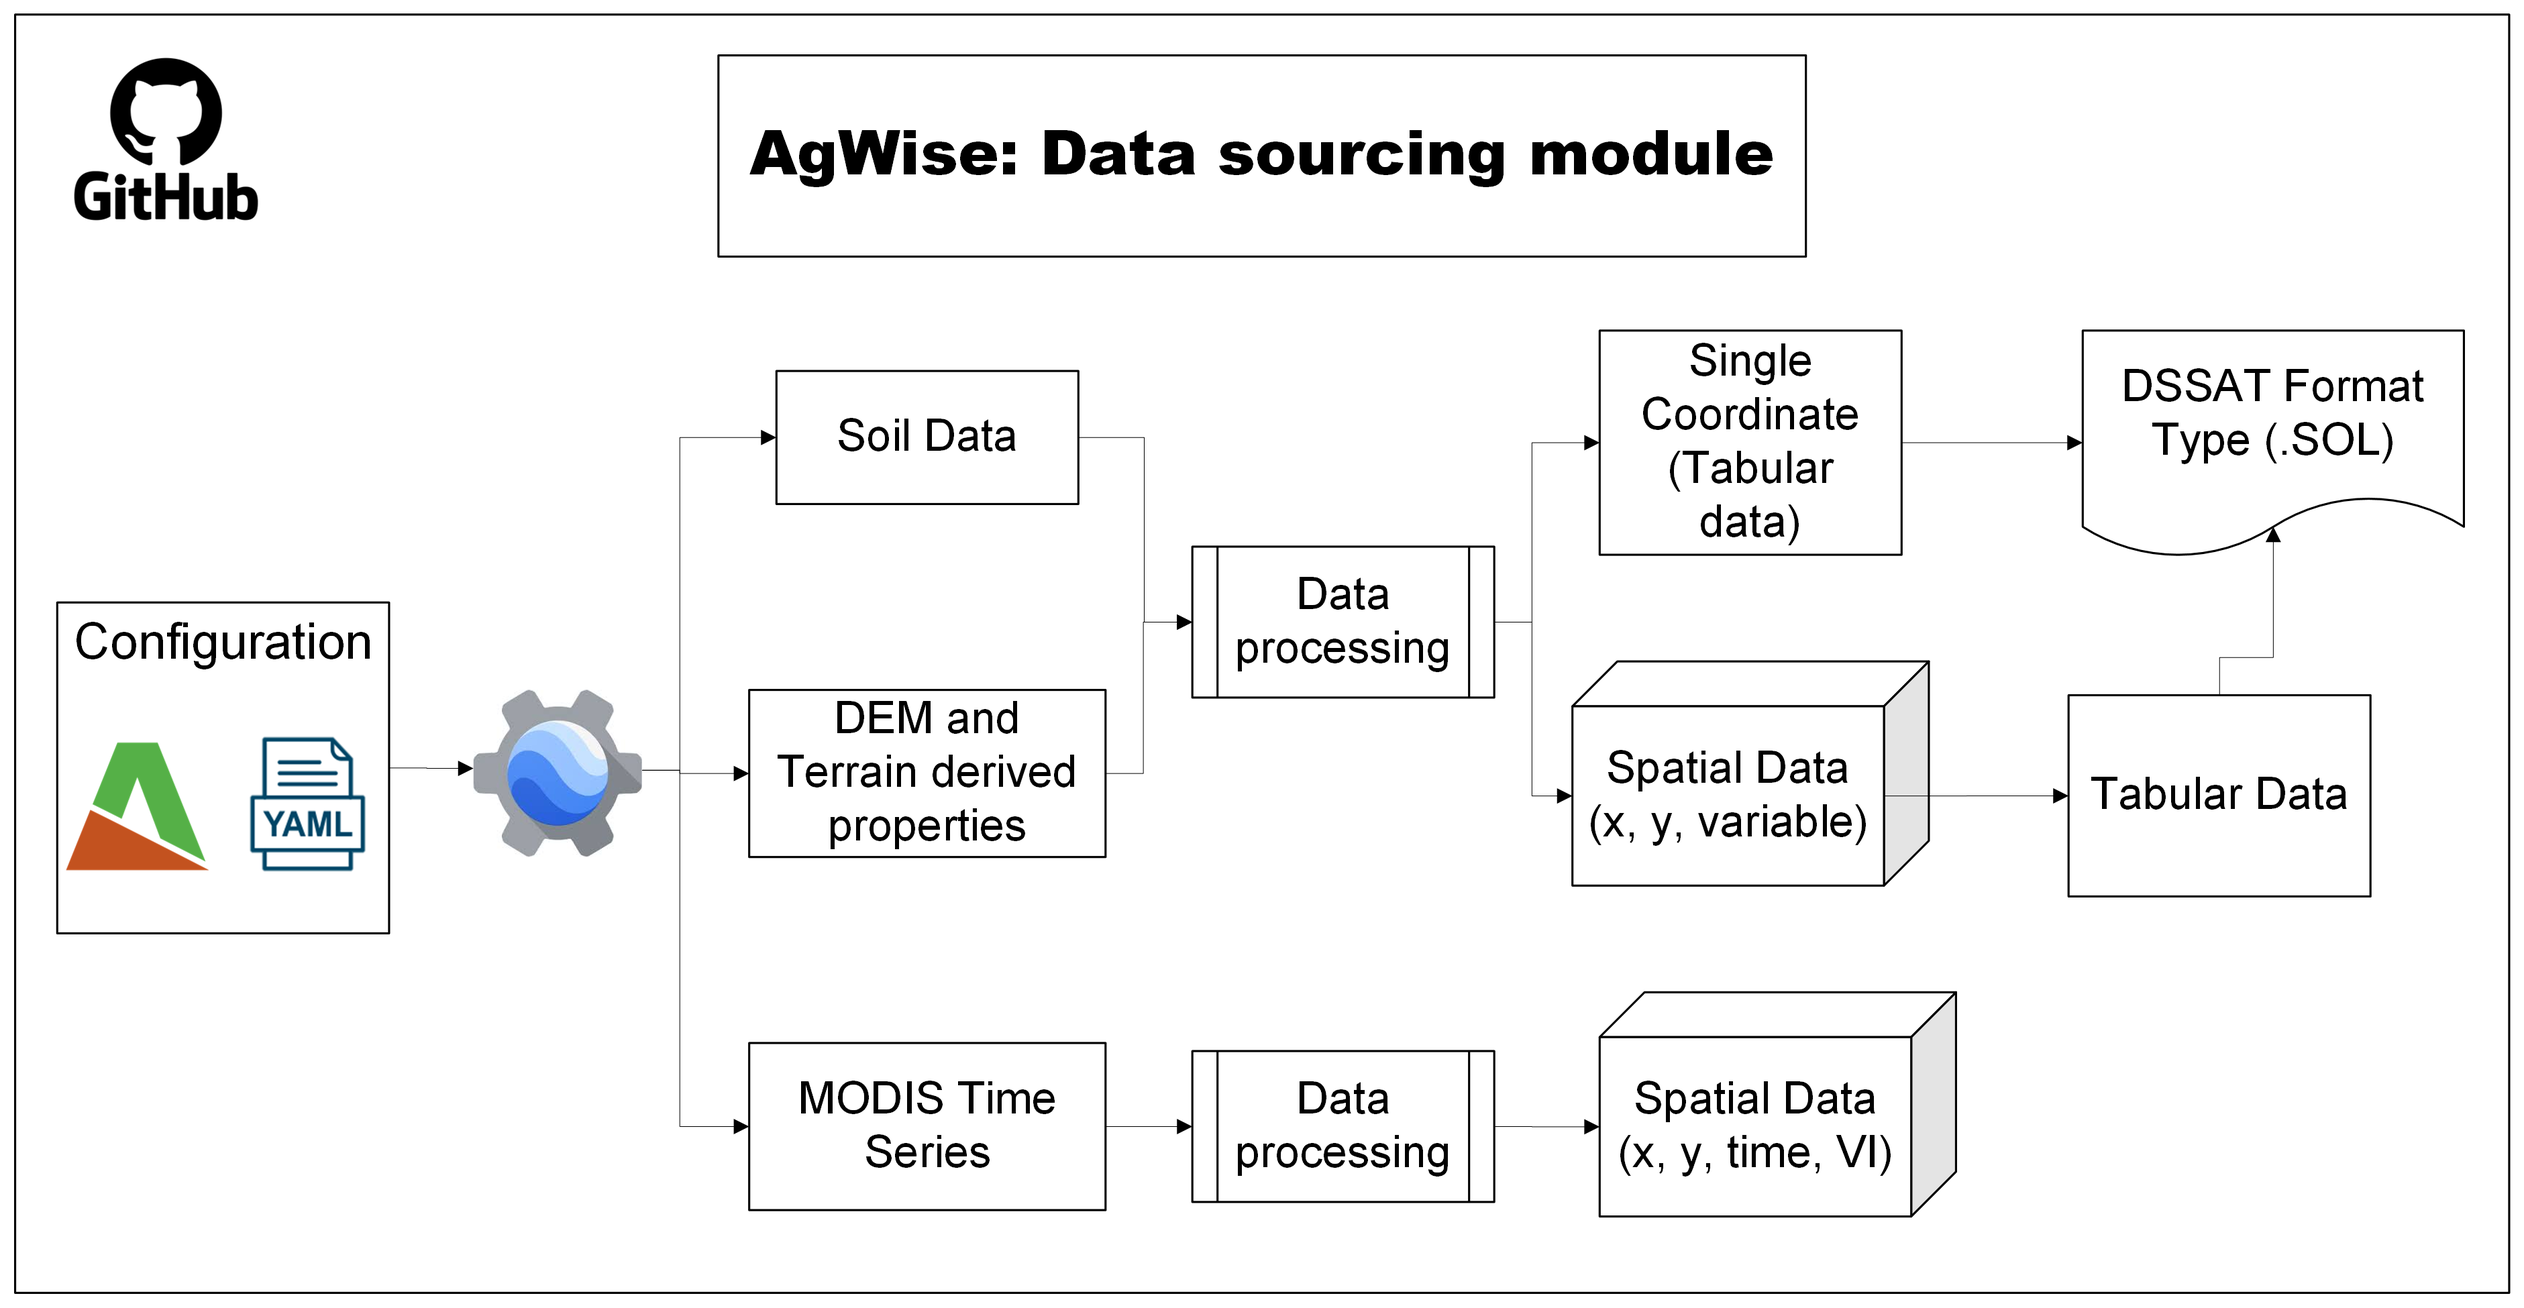
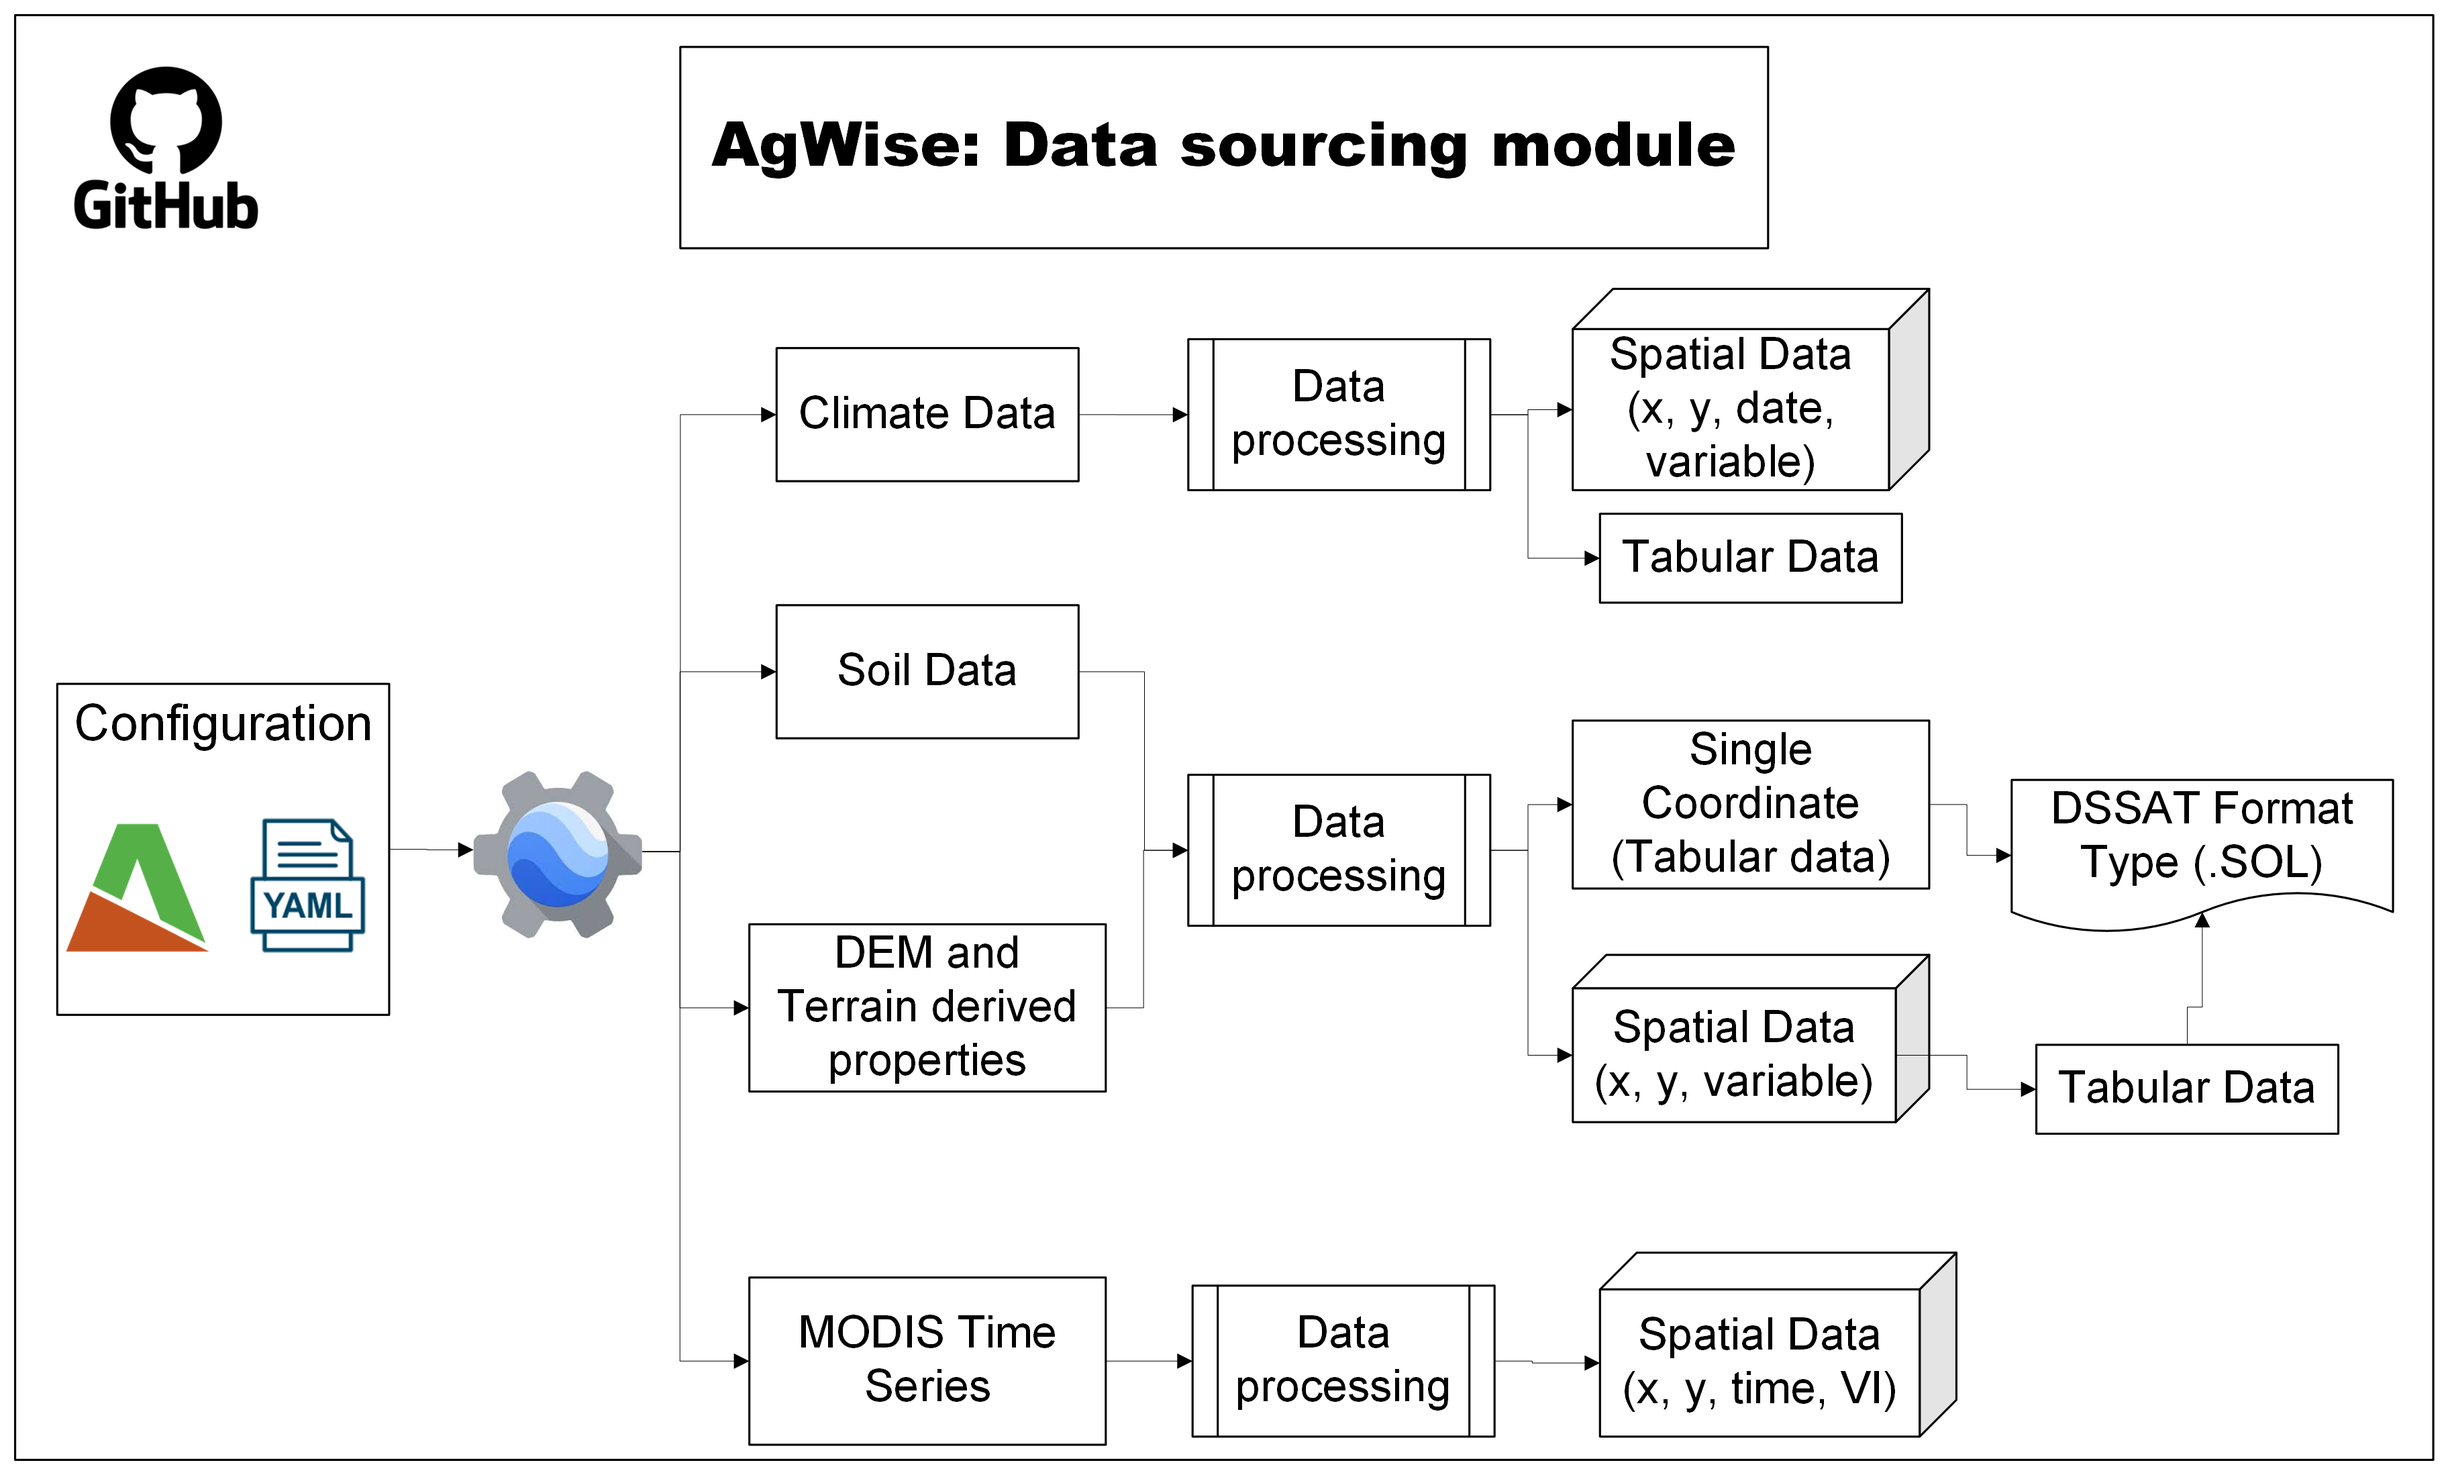
climate

diff --git a/README.md b/README.md
@@ -6,7 +6,7 @@ The tools are intended for researchers who require analysis-ready geospatial dat
 
 
 <p align="center">
-  <img src="images/workflow.png" alt="Workflow of the soil and dem process" width="80%">
+  <img src="images/workflow.png" alt="Workflow of the soil and dem process" width="90%">
   <br>
   <em>Figure 1. Workflow</em>
 </p>
@@ -26,6 +26,7 @@ The tools are intended for researchers who require analysis-ready geospatial dat
 ├── gee_datasets
 │   ├── __init__.py
 │   ├── gee_data.py
+│   ├── climate.py
 │   ├── dem.py
 │   ├── modis.py
 │   ├── soil.py
@@ -38,6 +39,7 @@ The tools are intended for researchers who require analysis-ready geospatial dat
 *   `GEESoilGrids_data_download.ipynb`: A Jupyter Notebook explaining how to use the tools for downloading SoilGrids data.
 *   `GEEElevation_data_download.ipynb`: A Jupyter Notebook explaining how to use the tools for downloading digital elevation data.
 *   `gee_datasets/gee_data.py`: Contains the core classes (`GEEDataDownloader`) for interacting with Google Earth Engine and downloading data.
+*   `gee_datasets/climate.py`:  Climate tools for extracting daily meteorological information.
 *   `gee_datasets/dem.py`:  DEM-specific tools for extracting elevation, slope, aspect, and other terrain metrics.
 *   `gee_datasets/soil.py`:  SoilGrids download tools and utilities.
 *   `gee_datasets/processing_funs.py`: Includes functions for time series processing, such as gap filling and smoothing.
